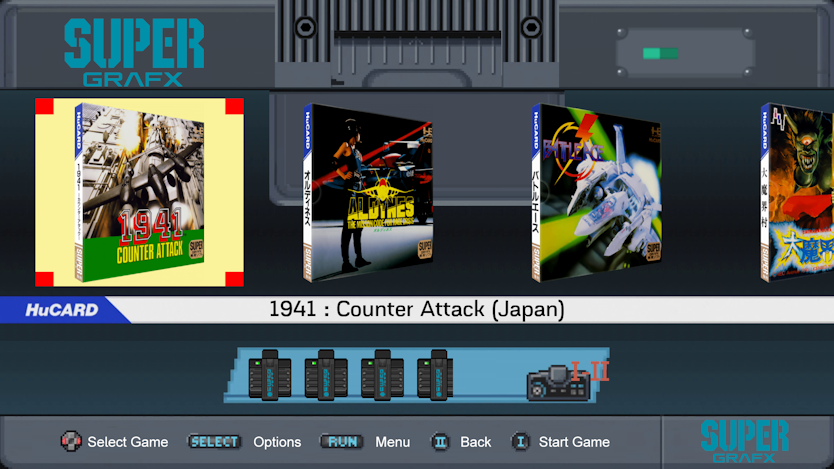
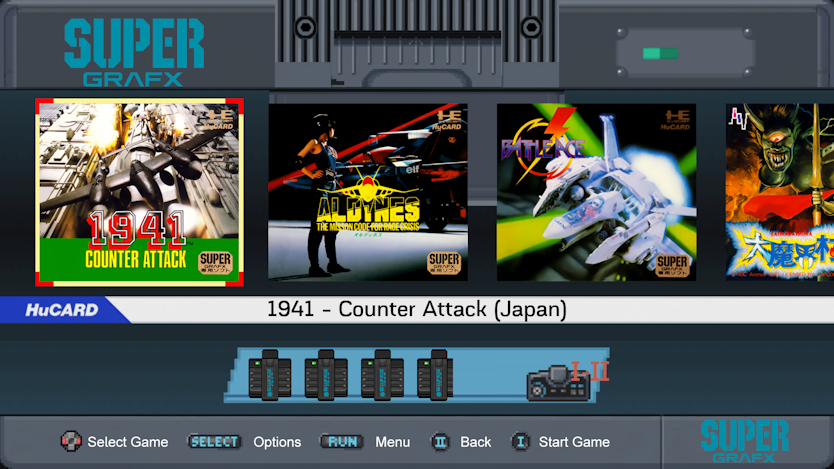
Updating images and README

Changed region(s): [[0.0312, 0.209, 0.5612, 0.6269], [0.3118, 0.209, 1.0, 0.6866]]

diff --git a/README.md b/README.md
@@ -2,8 +2,8 @@
 
 Tg16-mini is an EmulationStation version 6 compatible theme for Retropie.
 
-This theme was designed to mimic the look and feel of the [TurboGrafx-16 Mini](https://en.wikipedia.org/wiki/TurboGrafx-16_Mini) interface. PC Engine, TurboGrafx-16, PC Engine CD, TurboGrafx CD, and SuperGrafx systems are supported. Non-supported systems will use the TurboGrafx-16 artwork.
+This theme was designed to mimic the look and feel of the [TurboGrafx-16 Mini](https://en.wikipedia.org/wiki/TurboGrafx-16_Mini) interface. PC Engine, TurboGrafx-16, PC Engine CD, TurboGrafx CD, and SuperGrafx systems are supported. Nintendo Entertainment System and Super Nintendo Entertainment System are also supported, and sport the look and feel of their respective mini classic systems. Non-supported systems will use the TurboGrafx-16 artwork.
 
-![PC Engine Game List](art/README/pcengine.png) ![TurboGrafx-16 Game List](art/README/tg16.png) ![PC Engine CD Game List](art/README/pce-cd.png) ![TurboGrafx CD Game List](art/README/tg-cd.png) ![SuperGrafx Game List](art/README/supergrafx.png)
+![PC Engine Game List](art/README/pcengine.png) ![TurboGrafx-16 Game List](art/README/tg16.png) ![PC Engine CD Game List](art/README/pce-cd.png) ![TurboGrafx CD Game List](art/README/tg-cd.png) ![SuperGrafx Game List](art/README/supergrafx.png) ![Nintendo Entertainment System Game List](art/README/nes.png) ![Super Nintendo Entertainment System Game List](art/README/snes.png)
 
 Based on ['RetroPythin(TG16)' - 02-05-2021 by RetroPython](https://www.youtube.com/watch?v=tuXd4AXhMMQ).
